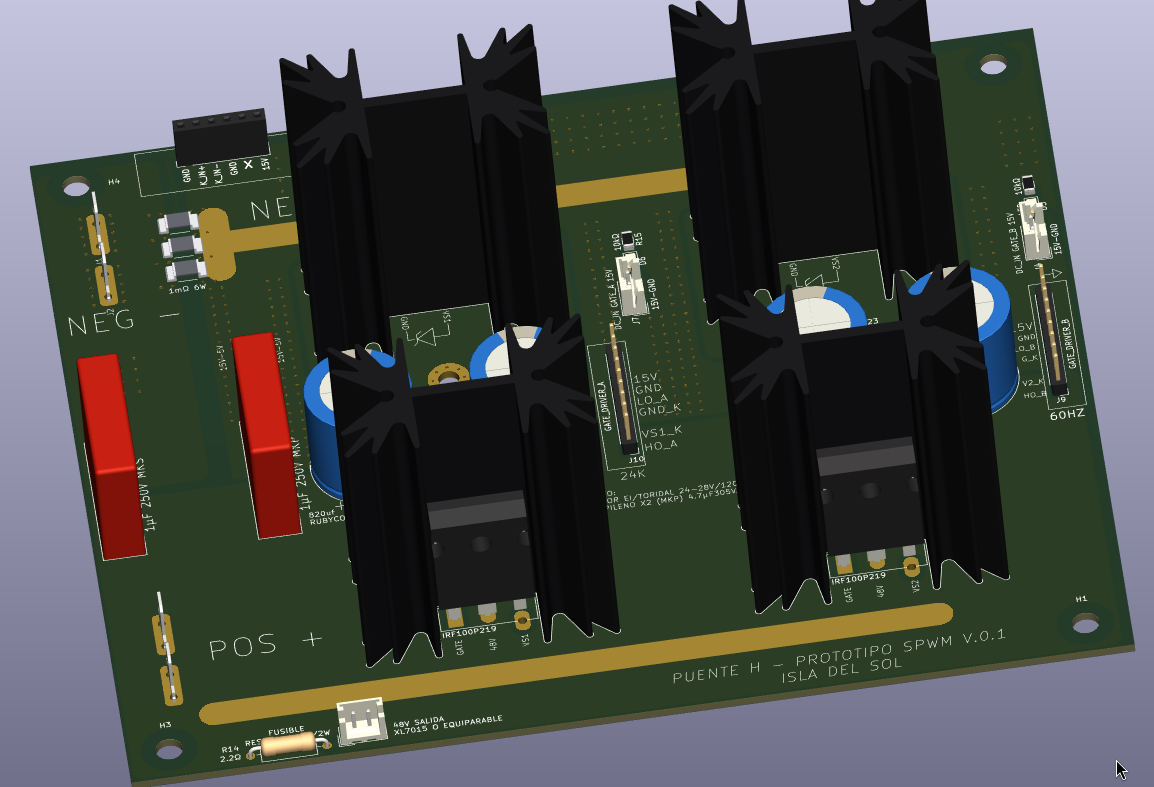
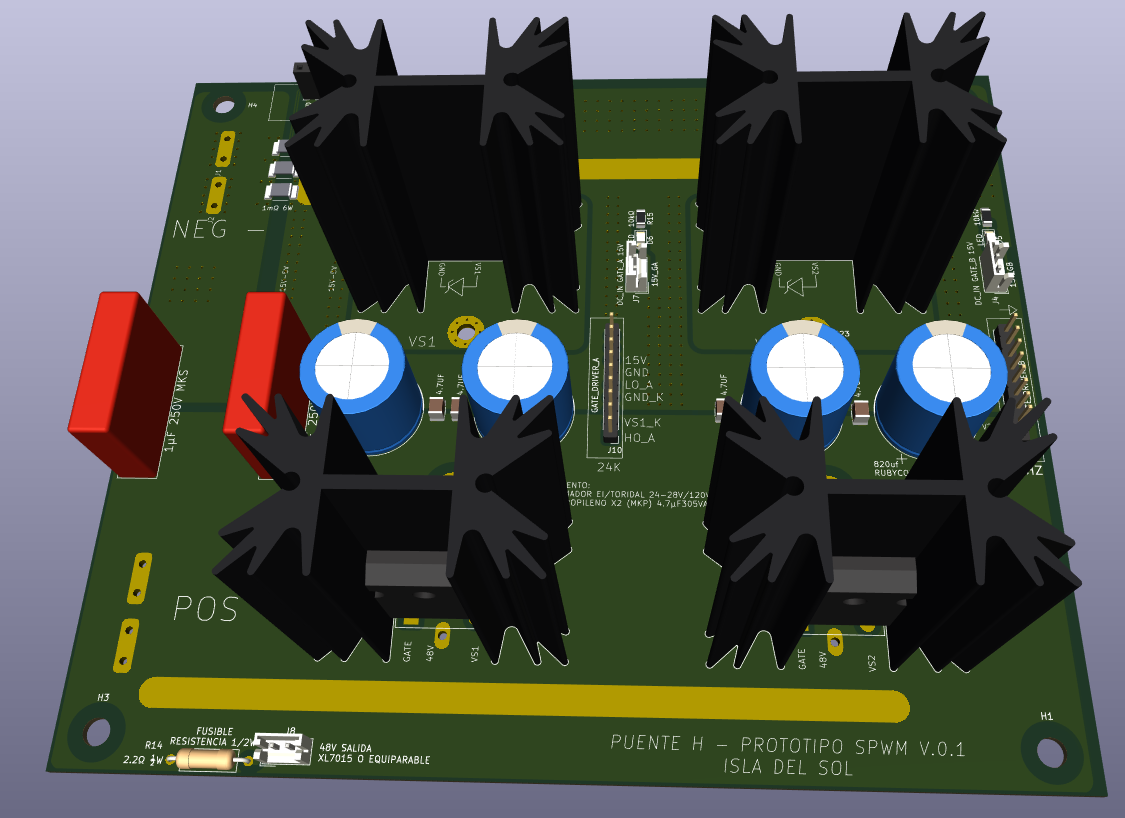
docs(puente_h): imagenes nuevas del layout y pies al dia
Siete capturas nuevas del 2026-11-17, ya con los pines movidos.

ENTRAN

  perspectiva_prototipo_trinchera.png   render 3D con componentes.
      Es tambien la imagen principal del README raiz, asi que cambiarla
      actualiza las dos.
  vista_3d_posterior.png                cara de soldadura: se ven las 20
      huellas de compuerta en su posicion nueva y las cuatro ventanas
      para el alambre.
  cobre_frontal_FCu.png                 zonas rellenas.
  cobre_posterior_BCu.png               zonas rellenas.
  editor_pcb_completo.png               las dos capas.
  vista_3d_frontal.png                  AHORA SIN LOS MODELOS 3D, que es
      mejor para documentar: con los disipadores puestos no se ve nada de
      lo que hay debajo. El pie se reescribio en consecuencia, porque el
      viejo hablaba de disipadores y Rubycon que ya no aparecen.
  zoom_Q2_BCu.png                       IMAGEN NUEVA, no existia.

LA DE Q2 ES LA QUE MAS APORTA

Documenta por que los altos y los bajos no llevan la misma huella, que es
lo unico que no se entiende mirando numeros. En Q2 el drenaje es VS1, el
nodo que brinca 48 V a 24 kHz, asi que se escalono APARTANDOLO de la
compuerta y de su referencia. En Q1 el drenaje son 48 V quietos, asi que
lo que convino fue alinear compuerta y source. Copiar la misma huella en
los cuatro habria empeorado uno de los dos.

NO ENTRA

  El acercamiento a Q1 viene cortado justo donde empieza su red de
[…]

diff --git a/hardware/puente_h/README.md b/hardware/puente_h/README.md
@@ -10,7 +10,7 @@ Es la tarjeta principal del inversor/cargador: contiene los cuatro MOSFET del pu
 
 ![Prototipo de trinchera del puente H en perspectiva](img/perspectiva_prototipo_trinchera.png)
 
-*Prototipo de trinchera en perspectiva (render 3D de KiCad): los cuatro IRF100P219 en sus disipadores Fischer SK 129, los Rubycon entre las dos filas de MOSFET, los films rojos de entrada, los sockets J10 y J9 para los gate drivers, J3 para el sensor DC y la salida J8 con su resistencia fusible R14.*
+*Prototipo de trinchera en perspectiva (render 3D de KiCad, **rehecho el 2026-11-17 con los pines ya movidos**): los cuatro IRF100P219 en sus disipadores Fischer SK 129, los Rubycon entre las dos filas de MOSFET, los films rojos de entrada, los sockets J10 y J9 para los gate drivers, J3 para el sensor DC y la salida J8 con su resistencia fusible R14.*
 
 ---
 
@@ -37,8 +37,8 @@ Es la tarjeta principal del inversor/cargador: contiene los cuatro MOSFET del pu
 
 | Archivo | Contenido |
 | --- | --- |
-| `PUENTE_H_INV48V_REV_C_2026-10_GATE_CENTRO.kicad_pro` | Proyecto de KiCad 9 (ábrelo para cargar todo) |
-| `PUENTE_H_INV48V_REV_C_2026-10_GATE_CENTRO.kicad_sch` | Esquemático principal (hoja raíz A3 por bloques A–I, KiCad 9) |
+| `PUENTE_H_INV48V_REV_C_2026-10_GATE_CENTRO.kicad_pro` | Proyecto de **KiCad 10** (ábrelo para cargar todo). ⚠ KiCad 9 ya no lo abre: ver la nota de formato abajo |
+| `PUENTE_H_INV48V_REV_C_2026-10_GATE_CENTRO.kicad_sch` | Esquemático principal (hoja raíz A3 por bloques A–I, KiCad 10) |
 | `CAPACITORES.kicad_sch` | Hoja jerárquica: banco de capacitores del bus (antes `CAPASITORES.kicad_sch`) |
 | `DISIPADORES.kicad_sch` | Hoja jerárquica: disipadores (antes `untitled.kicad_sch`) |
 | `ESTUDIOS.kicad_sch` | Hoja jerárquica sin conexiones: las tres láminas de estudio (red de compuerta y comparación de MOSFET), sección 6.1 |
@@ -47,6 +47,12 @@ Es la tarjeta principal del inversor/cargador: contiene los cuatro MOSFET del pu
 | `Disipador_V8511Y_equiv.step` | Modelo 3D aproximado de un disipador equivalente (versión anterior, ya no se usa en el layout) |
 | `SSA2512_Littelfuse_Kelvin.kicad_mod` · `SSA2512_Littelfuse.step` | Huella y modelo 3D del shunt (los mismos que en la carpeta del sensor) |
 | `auditoria/` | Auditoría de corriente y temperatura del layout: herramientas, figuras y [README](auditoria/README.md) |
+
+> ⚠ **Formato: el proyecto está en KiCad 10 y KiCad 9 ya no lo abre.** KiCad no sabe guardar hacia atrás. En Debian estable el paquete es 9.0.2 y en backports 9.0.8, así que para abrirlo hay que instalar el Flatpak oficial:
+>
+> ```
+> flatpak install --from https://flathub.org/repo/appstream/org.kicad.KiCad.flatpakref
+> ```
 
 ---
 
@@ -87,7 +93,9 @@ Es la tarjeta principal del inversor/cargador: contiene los cuatro MOSFET del pu
 
 ![Vista 3D frontal del puente H](img/vista_3d_frontal.png)
 
-*Vista 3D de la cara de componentes. Arriba, los MOSFET bajos (Q2, Q4) con sus disipadores; en medio, los cuatro Rubycon con los cerámicos de 4.7 µF y los sockets J10 y J9; abajo, los MOSFET altos (Q1, Q3). A la izquierda, los Faston de batería (NEG − / POS +), los shunts y los films C10 (MKS) y C9 (MKP). Las franjas claras de arriba y abajo son las tiras sin máscara del bus.*
+*Cara de componentes **sin los modelos 3D puestos**, para que no estorben: con los disipadores montados no se ve nada de lo que hay debajo. Arriba, las huellas de los MOSFET bajos (Q2, Q4) con sus redes de compuerta; en medio, los cuatro Rubycon, los cerámicos de 4.7 µF y los sockets J10 ("24K") y J9 ("60HZ"); abajo, los MOSFET altos (Q1, Q3). A la izquierda, los Faston de batería (NEG − / POS +), los shunts y los films C10 (MKS) y C9 (MKP). Las dos franjas amarillas de arriba y abajo son las tiras sin máscara del bus.*
+
+*En cada MOSFET se alcanzan a leer sus tres pines, y ahí se ve el acomodo nuevo: en los altos (abajo) dice `GATE · 48V · VS`, con el drenaje escalonado; en los bajos (arriba) dice `GND · 15V · GATE` con el drenaje conmutado apartado de la compuerta.*
 
 ![Vista del editor de PCB: tarjeta completa](img/editor_pcb_completo.png)
 
@@ -172,7 +180,15 @@ Cada MOSFET tiene la misma red, junto a sus patas, en la cara de soldadura:
 
 ![Acercamiento a Q1 en la cara de soldadura](img/zoom_Q1_BCu.png)
 
+> ⚠ **Esta imagen es de la REV C antes de mover los pines (2026-11-17) y su pie describe el acomodo viejo.** Pendiente de regenerar: ver el PR #34.
+
 *Q1 (MOSFET alto de la pierna A), visto en B.Cu. Sus tres pines son: **1** gate (`Net-(Q1-G)`), **2** drenaje a 48 V, aislado del plano VS1 que lo rodea, y **3** source a VS1. Debajo está su red de compuerta: R2 (10 Ω) desde HO_A, R3 (2.2 Ω) + D2 (ES1D) para el apagado y R1 (10 kΩ) del gate a VS1. Las dos pistas que salen a la derecha, hacia J10, son el par **HO_A / VS1_k**, que viajan juntas. La zona rayada que baja del borne J27 hasta el pin 3 es la **ventana para el alambre**, que se aleja del pin 2 (48 V). Los dos pines del disipador HS5 (48 V) también quedan aislados del plano VS1.*
+
+![Acercamiento a Q2 y su red de compuerta](img/zoom_Q2_BCu.png)
+
+*Q2 (MOSFET **bajo** de la pierna A) con su red de compuerta: R8 (10 Ω) desde LO_A, R7 (2.2 Ω) + D3 (ES1D) para el apagado y R9 (10 kΩ) del gate a GND. Arriba salen las dos pistas del par **LO_A / GND_KELVIN_A** hacia J10.*
+
+***Aquí se ve por qué los altos y los bajos no llevan la misma huella.*** *En Q2 el drenaje es **VS1**, el nodo que brinca 48 V a 24 kHz, así que se escalonó **apartándolo** de la compuerta y de su referencia (GND): de 5.45 mm pasó a 6.22 mm de la compuerta y a 6.76 mm del source. En Q1, en cambio, el drenaje son 48 V quietos, así que lo que convino fue **alinear compuerta y source** —quedaron a 0.00 mm de desalineación— para que el par HO_A / VS1_k salga derecho. Copiar la misma huella en los cuatro habría empeorado uno de los dos.*
 
 - **Encendido por 10 Ω y apagado por 2.2 Ω + diodo:** el MOSFET enciende suave (menos sobretiro y ruido) y apaga rápido (menos riesgo de conducción cruzada). El ánodo del ES1D va hacia el gate.
 - **10 kΩ gate–source:** mantienen apagado el MOSFET si el módulo no está puesto o se desconecta.
@@ -308,7 +324,7 @@ La tarjeta de control lleva un buck **extraíble**, para aceptar distintos fabri
 
 ![Cobre posterior B.Cu](img/cobre_posterior_BCu.png)
 
-*Cara de soldadura, vista desde arriba (por eso los textos se leen al revés). Cada pierna tiene un plano grande, **VS1** a la izquierda y **VS2** a la derecha, que va del MOSFET bajo al alto pasando por debajo de la fila de Rubycon. Encimado con los planos de GND y 48 V de la cara frontal, forma el **lazo de conmutación doblado** (~4 nH). Alrededor queda **GND**. Las islas con anillo de vías en cada pin de Rubycon llevan 48 V o GND a esta capa, y en medio de ellas van los cerámicos de 10 µF. Las zonas sin máscara que bajan de cada borne VS a la pata de su MOSFET son las **ventanas para el alambre 12 AWG**.*
+*Cara de soldadura (los textos se leen al revés). Cada pierna tiene un plano grande, **VS1** a la izquierda y **VS2** a la derecha, que va del MOSFET bajo al alto pasando por debajo de la fila de Rubycon. Encimado con los planos de GND y 48 V de la cara frontal, forma el **lazo de conmutación doblado** (~4 nH). Alrededor queda **GND**. Las islas con anillo de vías en cada pin de Rubycon llevan 48 V o GND a esta capa, y en medio de ellas van los cerámicos de 10 µF. Las zonas sin máscara que bajan de cada borne VS a la pata de su MOSFET son las **ventanas para el alambre 12 AWG**.*
 
 ### 11.1 Auditoría de cobre y temperatura
 
@@ -321,6 +337,8 @@ La auditoría completa está en [`auditoria/README.md`](auditoria/README.md). Re
 | Unión de Q1 / Q2 | ~62 °C | ~61 °C |
 | Rubycon | 45–47 °C | 45–46 °C |
 | Pérdidas totales (MOSFET + cobre + Rubycon) | ~14 W (1.4 %) | ~13 W |
+
+> **Actualizado el 2026-11-17.** Con la distribución nueva de pines, la auditoría de cobre baja la **pérdida total en el cobre de 5.56 a 4.83 W (−13 %)** y el **área sobre el límite de corriente de 115 a 23 mm² (−80 %)**. Los watts son modestos —0.73 W sobre 1000 son 0.07 puntos de eficiencia—; lo que de verdad gana es que **desaparecen los puntos donde el cobre se apretaba**. Las cifras de la tabla de arriba son de la revisión anterior y quedan pendientes de rehacerse.
 
 - **El refuerzo con alambre es opcional a 1000 W.** Se recomienda en gabinetes cerrados o en clima caliente, y es necesario si se sube la potencia.
 - **El calor dominante viene de los MOSFET de la pierna A**, no del cobre.
@@ -426,6 +444,7 @@ La auditoría completa está en [`auditoria/README.md`](auditoria/README.md). Re
 | 2026-11-05 | Ventanas del MOSFET bajo con cuello en la pata central: Q2 a 2.50 mm del gate y 2.85 mm de GND; Q4 a 2.84 / 3.12 mm. Las del MOSFET alto quedan a 1.98–1.99 mm del pin de 48 V. Serigrafía HO_A / LO_A corregida | Verificado con la geometría exacta; sin pistas con net distinta a su pad ni referencias duplicadas: **lista para fabricar** |
 | 2026-11-05 | Nets de compuerta unificadas: `HO_A` / `LO_A` (pierna A) y `HO_B` / `LO_B` (pierna B), de J10/J9 hasta las redes de gate | Ninguna pista queda con net distinta a la del pad que toca |
 | 2026-11-12 | **Hoja raíz rehecha en A3 por bloques A–I** (antes casi todo quedaba fuera de la hoja A4); MOSFET con símbolo de **canal N** (antes `IRF4905`, canal P; los pines 1 G · 2 D · 3 S no cambian); D1–D4 con símbolo de diodo rápido (antes Schottky SS14); red **15V → 15V_GB**, pareja de 15V_GA como en la tarjeta de control; hojas renombradas a **CAPACITORES** y **DISIPADORES**; valores con voltaje y dieléctrico (cerámicos 100 V X7R, Rubycon 100 V ZLH); notas al día (tiempo muerto por P9, 33 A RMS, bootstrap en los módulos); J3-5 y J9/J10-3, 8, 9 marcados sin conexión; se quitaron los buses de adorno; las 3 láminas de estudio (imágenes de ~1 MB que generaban líneas de más de 1 MB y KiCad no abría el archivo) pasan a la hoja **ESTUDIOS** y a `img/` | Conexiones idénticas a la versión anterior (comparadas pin por pin). PCB sincronizado: red 15V_GB, nombres de hoja y valores; sin mover huellas ni pistas; la serigrafía no cambia |
+| 2026-11-17 | **Distribución nueva de los pines de los cuatro MOSFET**, distinta en altos que en bajos: en Q1/Q3 el source subió a la línea de la compuerta y el drenaje (48 V, quieto) bajó; en Q2/Q4 subieron compuerta y source y el drenaje (VS, conmutado) se quedó apartado. 20 huellas de las redes de compuerta movidas para seguirlos. Proyecto convertido a **KiCad 10** | Auditoría de cobre: pérdida total 5.56 → **4.83 W** (−13 %) y área en rojo 115 → **23 mm²** (−80 %). Costo en la auditoría de conmutación: área de nodo conmutado +2.3 %, modo común 5.39 → 5.52 mA. El puente conmutado se acortó de 76.6 a 73.9 mm |
 | 2026-11-12 | Archivos del autor abiertos y guardados en KiCad 9: acomodo de textos en la raíz, CAPACITORES y ESTUDIOS (texto descriptivo de las láminas); 2 textos de serigrafía movidos en el PCB; ESTUDIOS registrada en el `.kicad_pro`. **Corrección:** al girar J22 (VS2) 180° su pin pasó a x = 353.06 y la etiqueta VS2 quedó en el cuerpo del conector, dejando J22 sin red; se movió la etiqueta al pin | Conexiones idénticas a la versión anterior (comparadas pin por pin) |
 
 ---
